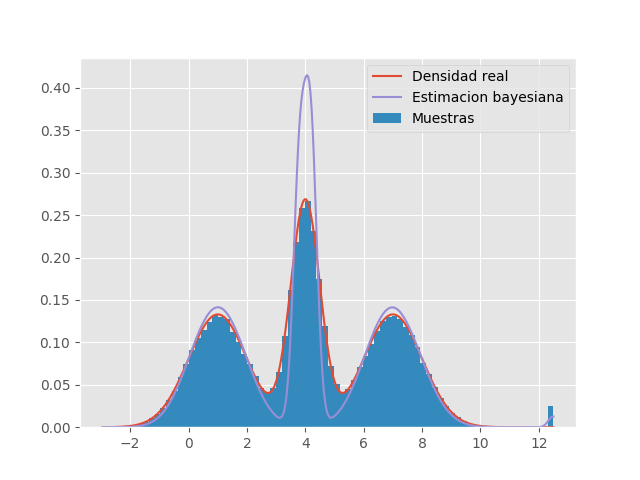
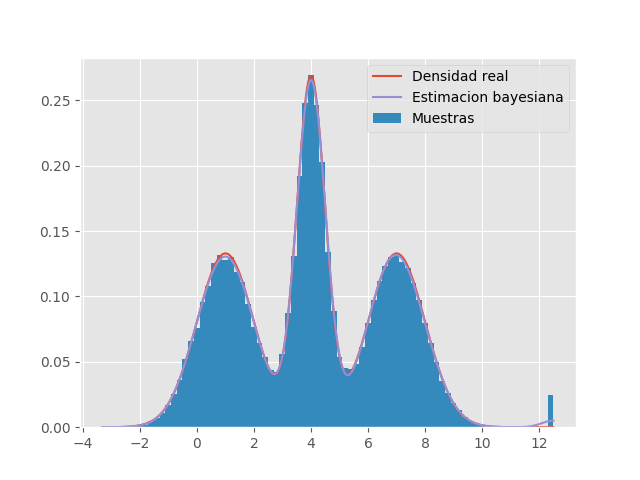
fixed images

diff --git a/ml.py b/ml.py
@@ -35,8 +35,9 @@ for l, s, w in zip(gmm.means_.flatten(), gmm.covariances_.flatten(), gmm.weights
 y_axis_bgmm = np.zeros_like(x_axis)
 bgmm = BayesianGaussianMixture(7)
 bgmm.fit(samples.reshape(-1,1))
-for l, s, w in zip(bgmm.means_.flatten(), bgmm.covariances_.flatten(), bgmm.weights_):
-    y_axis_bgmm += ss.norm.pdf(x_axis, loc=l, scale=s) * w
+y_axis_bgmm = np.exp(bgmm.score_samples(x_axis.reshape(-1,1)))
+# for l, s, w in zip(bgmm.means_.flatten(), bgmm.covariances_.flatten(), bgmm.weights_):
+#     y_axis_bgmm += ss.norm.pdf(x_axis, loc=l, scale=s) * w
 
 plt.plot(x_axis, y_axis, label='Densidad real')
 plt.hist(samples, normed=True, bins="fd", label='Muestras')
